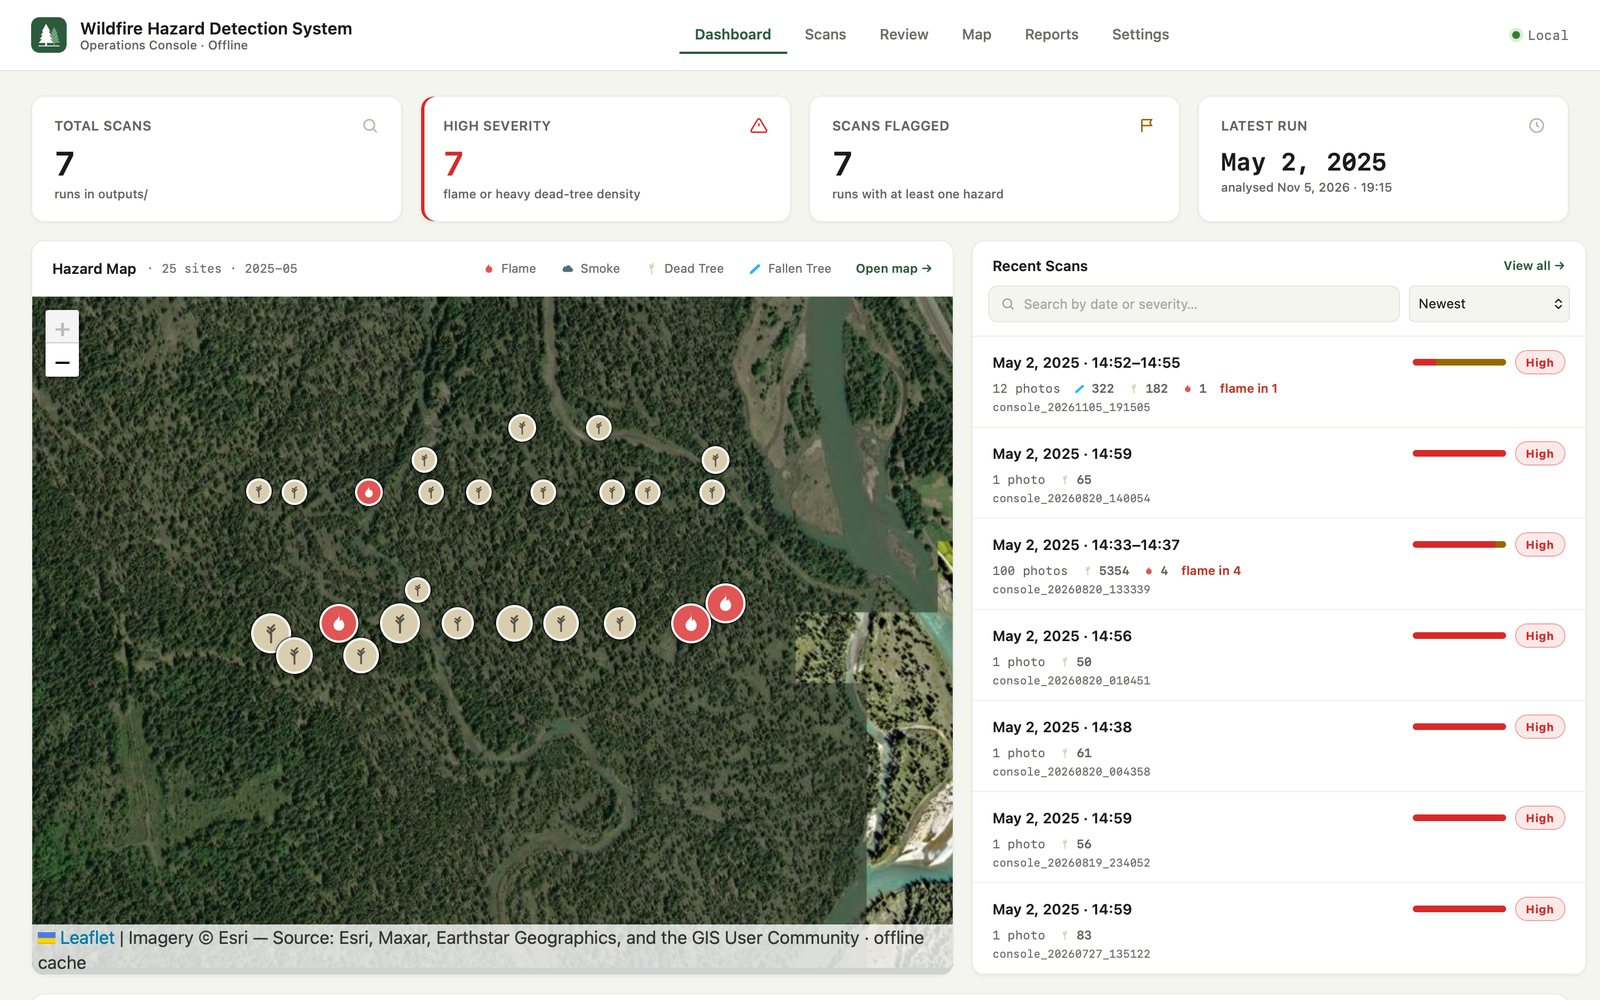
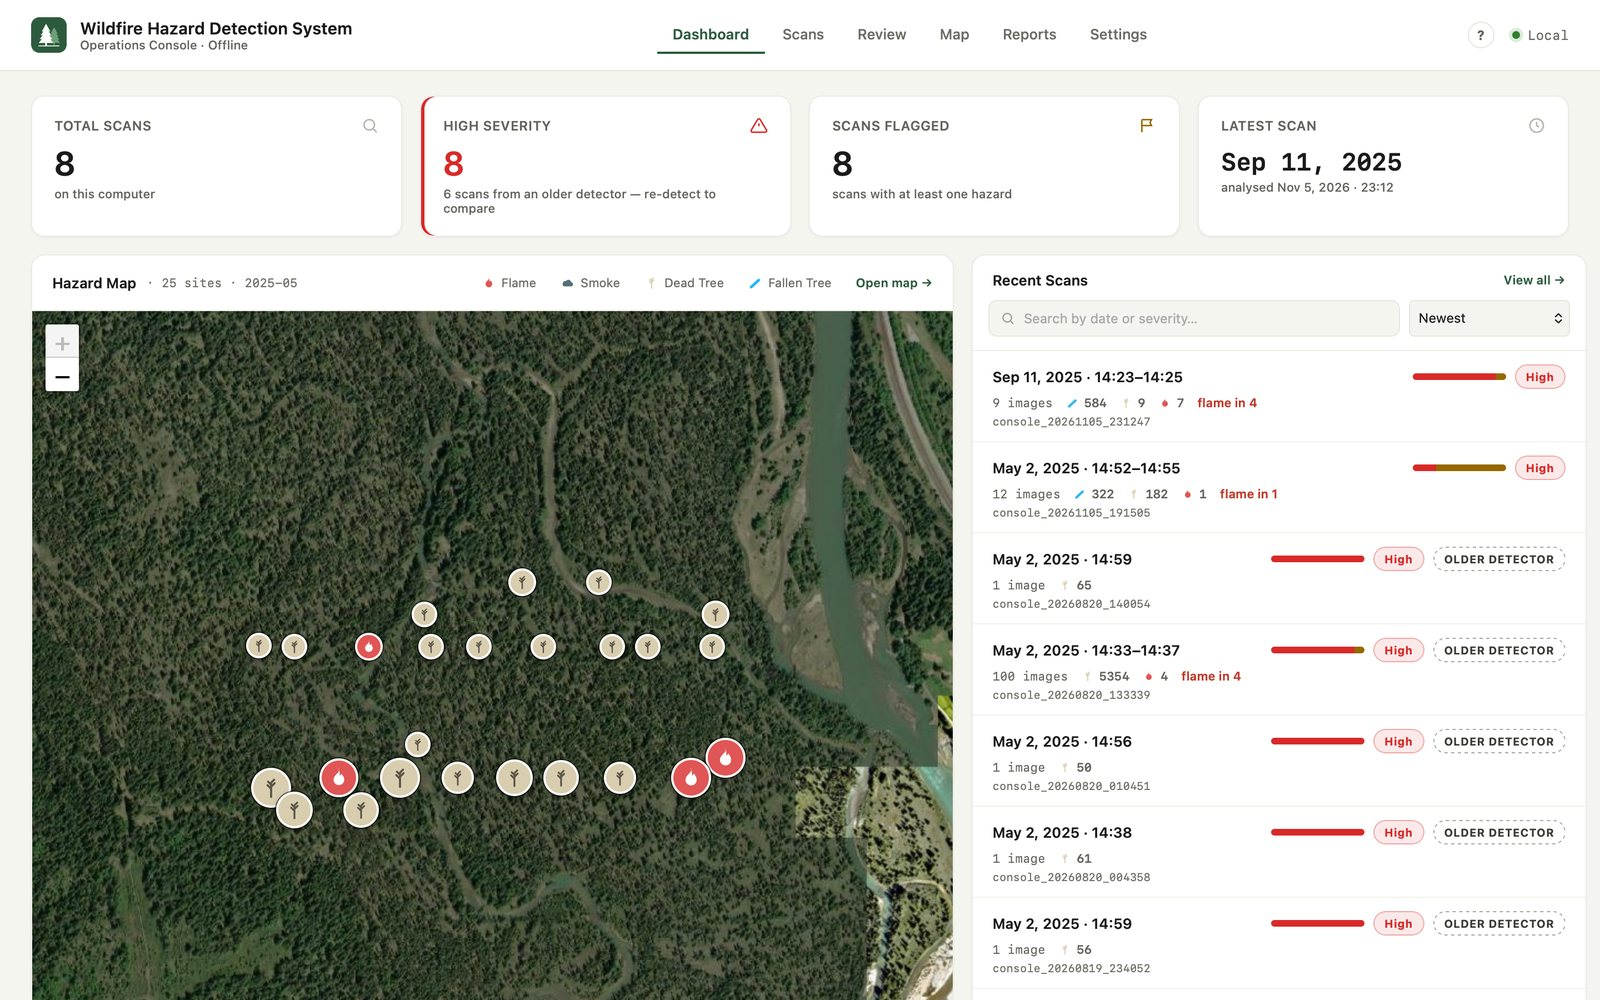
Refresh the README screenshots for the current console
Dashboard, Scans, Scan detail, Review editor and Map re-captured at 1440x900
(2x, downscaled to 1600 px). They now show the live box layer with sizes in
metres and the minimap, the Older detector tags, the shortcut sheet, and the
header's ? button. The map views are on May 2025, the month with offline
tiles. Report pages are unchanged since report.py has not changed.

diff --git a/README.md b/README.md
@@ -66,7 +66,9 @@ See the screenshot above.
 ### Scans - import a mission folder
 Point it at an SD-card dump. Only images are read - telemetry sidecars are ignored -
 and photos are grouped into flights by capture time, so a 1,500-photo day becomes a
-list of flights you can detect one at a time or in a chosen subset.
+list of flights you can detect one at a time or in a chosen subset. Detection runs in the
+background: every page's header shows its progress and time left, and the desktop app
+sends a system notification when a flight is done.
 
 ![Scans page: a mission folder grouped into flights](docs/screenshots/scans.jpg)
 
@@ -77,9 +79,10 @@ hazard type, or turn the labels on, and the frame underneath stays visible. Besi
 the detections in the current frame with click-to-locate, each sized in metres on the
 ground and given a confidence band, plus GPS and camera metadata and per-frame severity.
 A scan made by an older version of the detector says so ("Older detector") and offers
-*Re-detect*, which runs the current one over the same photos as a new scan.
+*Re-detect*, which runs the current one over the same photos as a new scan. Zoomed in, a
+minimap in the corner shows the whole frame and where you are in it; click it to jump.
 
-![Scan detail: annotated frame, detections list and frame metadata](docs/screenshots/scan-detail.jpg)
+![Scan detail zoomed in: live boxes over the photo, a minimap of the whole frame, and box sizes in metres](docs/screenshots/scan-detail.jpg)
 
 ### Review - confirm what the model proposed
 Switch the viewer into review mode to delete false detections, relabel them, or draw
@@ -89,7 +92,7 @@ work cannot be lost by accident: leaving asks first, and every change is kept in
 draft that is offered back if the window closes. Saving writes the verdict back
 everywhere - the detail page, the map and the report all follow it.
 
-![Box review editor](docs/screenshots/review-editor.jpg)
+![Box review editor with the keyboard-shortcut sheet open](docs/screenshots/review-editor.jpg)
 
 ### Map
 All hazard sites on offline satellite imagery, with month and hazard-type filters. A pin
